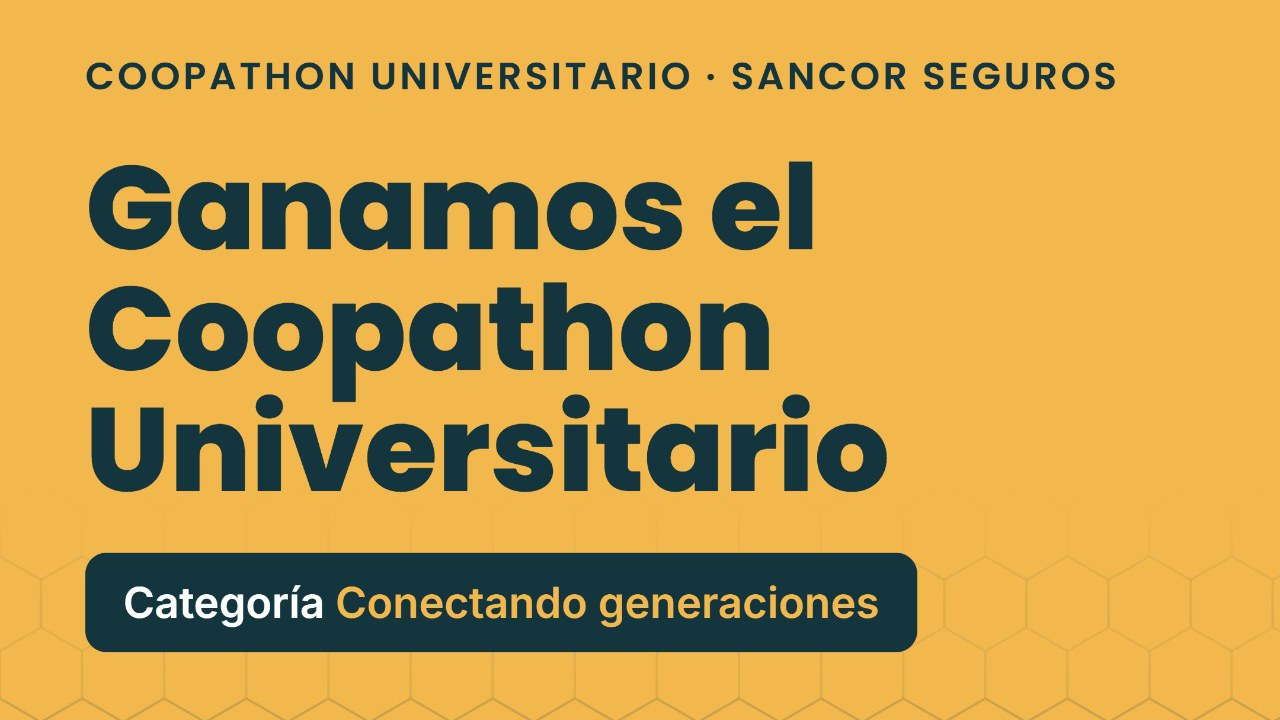
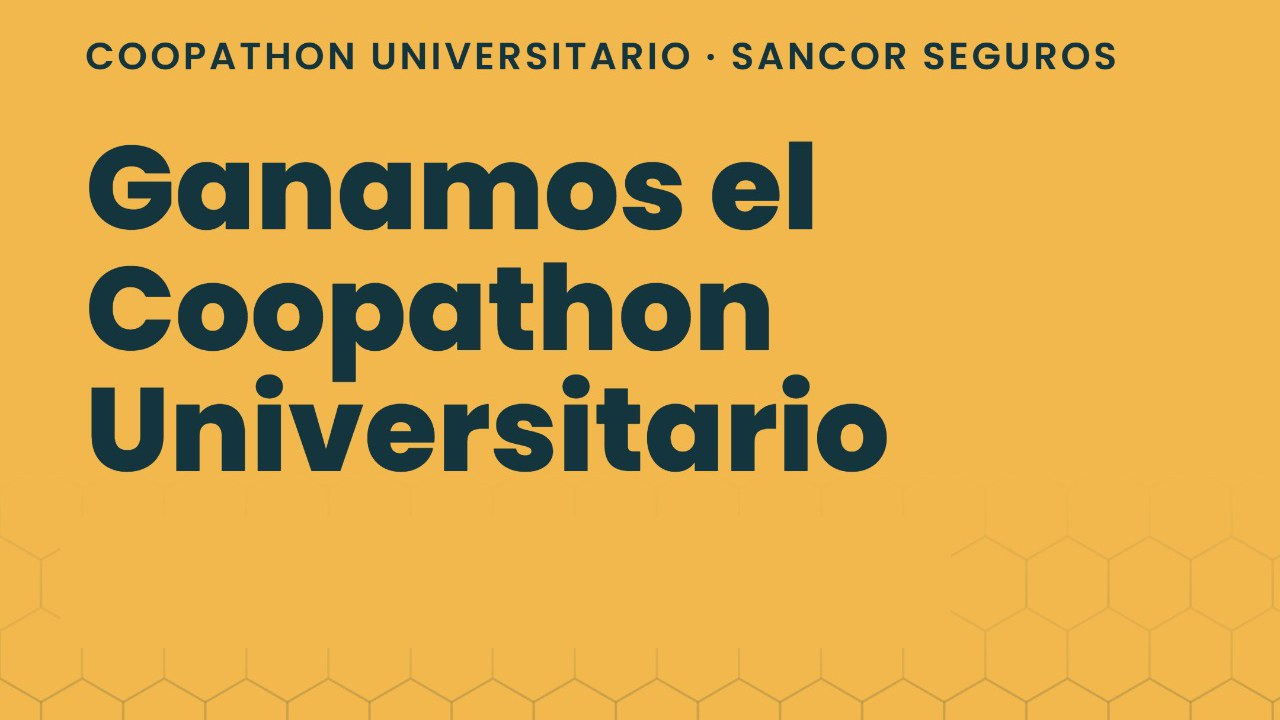
Ajusta la tarjeta del Coopathon: mascota con el cartel, texto corto, premio y orden

diff --git a/index.html b/index.html
@@ -98,7 +98,7 @@
         "award": [
           "1.º puesto — Capstone Project del Samsung Innovation Campus Argentina 2025 (edición Inteligencia Artificial)",
           "3.er puesto nacional — Santander X Argentina Award 2026, categoría Proyectos Universitarios",
-          "Ganador de la categoría Conectando generaciones — Coopathon Universitario 2026 (Grupo Sancor Seguros)"
+          "Ganador del desafío Conectando generaciones — Coopathon Universitario 2026 (Grupo Sancor Seguros)"
         ],
         "sameAs": [
           "https://www.youtube.com/@AIDAChatbot",
@@ -183,7 +183,7 @@
         "award": [
           "1.º puesto — Capstone Project del Samsung Innovation Campus Argentina 2025 (edición Inteligencia Artificial)",
           "3.er puesto nacional — Santander X Argentina Award 2026, categoría Proyectos Universitarios",
-          "Ganador de la categoría Conectando generaciones — Coopathon Universitario 2026 (Grupo Sancor Seguros)"
+          "Ganador del desafío Conectando generaciones — Coopathon Universitario 2026 (Grupo Sancor Seguros)"
         ]
       },
       {
@@ -796,6 +796,27 @@
           </div>
         </article>
 
+        <article class="award-card award-card--coop reveal" id="coopathon">
+          <div class="award-card__media">
+            <span class="award__ribbon">🏆 1.er puesto · 2026</span>
+            <img src="assets/aida-coopathon.jpg" alt="Ganamos el Coopathon Universitario de Sancor Seguros" width="1280" height="720" loading="lazy" />
+            <img class="award-card__mascot" src="assets/aida-coopathon-cartel.png" alt="El pingüino de AIDA sosteniendo el cartel del Coopathon Universitario de Sancor Seguros" width="420" height="440" loading="lazy" />
+          </div>
+          <div class="award-card__body">
+            <h3>Coopathon Universitario · Sancor Seguros</h3>
+            <p>
+              Ganamos el desafío <strong>«Conectando generaciones»</strong> del Grupo Sancor Seguros: cómo una
+              cooperativa puede sumar a sus asociados mayores a lo digital <strong>sin ser invasiva</strong>,
+              desde la ayuda mutua y la participación.
+            </p>
+            <dl class="award__facts">
+              <div class="award-fact"><dt class="award-fact__k">Resultado</dt><dd class="award-fact__v">1.er puesto</dd></div>
+              <div class="award-fact"><dt class="award-fact__k">Premio</dt><dd class="award-fact__v">$2.333.333 para el equipo</dd></div>
+              <div class="award-fact award-fact--wide"><dt class="award-fact__k">Y para la universidad</dt><dd class="award-fact__v">$1.000.000, todo en equipamiento informático</dd></div>
+            </dl>
+          </div>
+        </article>
+
         <article class="award-card reveal">
           <div class="award-card__media award-card__media--logo">
             <span class="award__ribbon">🏆 3.er puesto · 2026</span>
@@ -811,32 +832,6 @@
               <div class="award-fact"><dt class="award-fact__k">Resultado</dt><dd class="award-fact__v">3.er puesto nacional</dd></div>
               <div class="award-fact"><dt class="award-fact__k">Premio</dt><dd class="award-fact__v">$3.000.000 para infraestructura y pruebas</dd></div>
               <div class="award-fact award-fact--wide"><dt class="award-fact__k">Lo que sigue</dt><dd class="award-fact__v">Pase a la instancia mundial: Santander X Global Award</dd></div>
-            </dl>
-          </div>
-        </article>
-
-        <article class="award-card reveal" id="coopathon">
-          <div class="award-card__media">
-            <span class="award__ribbon">🏆 1.er puesto · 2026</span>
-            <img src="assets/aida-coopathon.jpg" alt="Gráfico con el texto: Ganamos el Coopathon Universitario de Sancor Seguros, categoría Conectando generaciones" width="1280" height="720" loading="lazy" />
-          </div>
-          <div class="award-card__body">
-            <h3>Coopathon Universitario · Sancor Seguros</h3>
-            <p>
-              Ganamos la categoría <strong>Conectando generaciones</strong> del desafío nacional de Grupo Sancor
-              Seguros: equipos de tres estudiantes de todo el país pensando cómo la tecnología puede ayudar a
-              cooperativas y mutuales. Llegamos a la final entre 15 proyectos.
-            </p>
-            <p>
-              Lo que nos importó fue cómo una organización puede sumar a sus asociados mayores a lo digital
-              <strong>sin invadir</strong>: que sigan decidiendo ellos, que la ayuda esté cuando la piden y que
-              acompañe a quienes ya los acompañan. Es la ayuda mutua, la participación y la educación de los
-              valores cooperativos llevadas a un celular.
-            </p>
-            <dl class="award__facts">
-              <div class="award-fact"><dt class="award-fact__k">Resultado</dt><dd class="award-fact__v">1.er puesto en su categoría</dd></div>
-              <div class="award-fact"><dt class="award-fact__k">Premio</dt><dd class="award-fact__v">Equipamiento informático para el equipo y la universidad</dd></div>
-              <div class="award-fact award-fact--wide"><dt class="award-fact__k">Organizan</dt><dd class="award-fact__v">Fundación Grupo Sancor Seguros, Sancor Seguros Impulsa e ICES</dd></div>
             </dl>
           </div>
         </article>

diff --git a/styles/main.css b/styles/main.css
@@ -559,13 +559,19 @@ p { text-wrap: pretty; }
   position: relative;
   aspect-ratio: 16 / 9;
   border-radius: calc(var(--r-lg) - 1px) calc(var(--r-lg) - 1px) 0 0;
-  background: rgba(255,255,255,.95);
+  background: #fff;
 }
 .award-card__media img {
   width: 100%; height: 100%; object-fit: cover;
   border-radius: inherit;
 }
 /* Santander X: el pingüino junto al logo, entero, sobre blanco */
+.award-card--coop .award-card__mascot {
+  position: absolute; right: 4%; bottom: -14px; width: 24%; height: auto;
+  object-fit: contain; border-radius: 0; filter: drop-shadow(0 6px 10px rgba(0,0,0,.25));
+  transition: transform 340ms var(--ease-spring);
+}
+.award-card--coop:hover .award-card__mascot { transform: rotate(-4deg) scale(1.05); }
 .award-card__media--logo { display: grid; place-items: center; padding: var(--sp-4); }
 .award-card__media--logo img { width: 100%; height: 100%; object-fit: contain; border-radius: 0; transition: transform 340ms var(--ease-spring); }
 .award-card:hover .award-card__media--logo img { transform: scale(1.04); }
